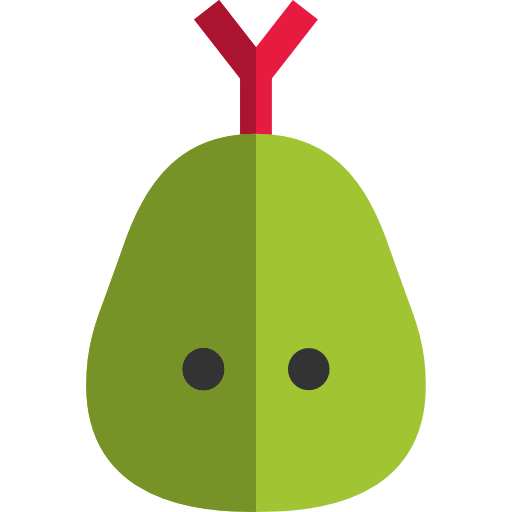
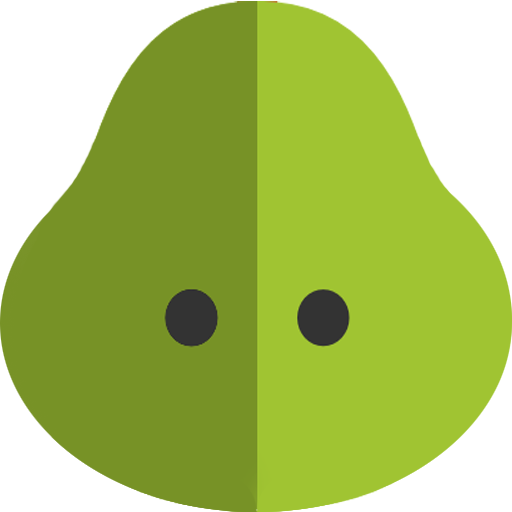
implemented collisions between snake and apple, refactoring, bug fixing

diff --git a/lecture_24/instances.py b/lecture_24/instances.py
@@ -1,28 +1,24 @@
-
+from os import path
 from config import *
 import random
 
 
 class GameElement:
 
-    def __init__(self, pos: tuple, size: tuple, image="", color=""):
+    def __init__(self, pos: tuple, size: tuple, image="", color="", direction="up"):
         if image or color:
             self.size = size
-            self.degree = 0
+            self.direction = direction
             if image:
                 self.surface = pg.image.load(image).convert_alpha()
                 self.surface = pg.transform.scale(self.surface, size)
                 self.rect = self.surface.get_rect(x=pos[0], y=pos[1])
-                self.element = (self.surface, self.rect)
             if color:
                 self.surface = pg.Surface(self.size)
                 self.rect = self.surface.get_rect(x=pos[0], y=pos[1])
-                self.element = (self.surface, self.rect)
+
         else:
             raise TypeError("Insufficient arguments to create a class object. Image or color is necessary.")
-
-    def get_element(self):
-        return self.element
 
     def get_pos(self):
         return self.rect.x, self.rect.y
@@ -39,16 +35,29 @@ class GameElement:
         self.rect.x = pos[0]
         self.rect.y = pos[1]
 
-    def rotate(self, desired):
-        angles = [0, 90, 180, 270]
-        degree = None
-        if desired in angles and desired != self.degree:
-            if desired > self.degree:
-                degree = desired - self.degree
-            if desired < self.degree:
-                degree = 360 - self.degree + desired
-            self.surface = pg.transform.rotate(self.surface, -degree)
-            self.degree = desired
+    def rotate(self, direction="up"):
+        degrees = {"up": 0,
+                  "left": 270,
+                  "down": 180,
+                  "right": 90}
+        rotate_degree = None
+        required_degree = degrees[direction]
+        current_degree = degrees[self.direction]
+
+        if direction in degrees and degrees[direction] != current_degree:
+            if required_degree > current_degree:
+                rotate_degree = required_degree - current_degree
+            if degrees[direction] < current_degree:
+                rotate_degree = 360 - current_degree + required_degree
+
+            self.surface = pg.transform.rotate(self.surface, -rotate_degree)
+            self.direction = direction
+
+    @staticmethod
+    def generate_new_pos(scrn: pg.Surface, cell_size: int):
+        x = random.randrange(0, scrn.get_width(), cell_size)
+        y = random.randrange(0, scrn.get_height(), cell_size)
+        return x, y
 
 
 class Worm:
@@ -61,45 +70,61 @@ class Worm:
     def __len__(self):
         return len(self.body)
 
-    def extend(self, body_el: GameElement):
-        self.body.append(body_el)
-
     def get_positions(self):
         positions = []
         for element in self.body:
             positions.append(element.get_pos())
         return positions
 
-    def move(self, offset, angle):
+    def define_direction(self, event_key, current_direction):
+        direction = current_direction
+        if event_key == pg.K_DOWN and self.head.direction != UP:
+            direction = DOWN
+        if event_key == pg.K_UP and self.head.direction != DOWN:
+            direction = UP
+        if event_key == pg.K_RIGHT and self.head.direction != LEFT:
+            direction = RIGHT
+        if event_key == pg.K_LEFT and self.head.direction != RIGHT:
+            direction = LEFT
+        return direction
+
+    def move(self, offset, direction):
         next_x, next_y = self.head.get_pos()
 
         for i, el in enumerate(self.body):
 
             if el == self.head:
-                self.head.rotate(angle)
+                self.head.rotate(direction)
                 self.head.move(offset)
             else:
                 current_x, current_y = el.get_pos()
                 if self.body[i-1].rect.x != el.rect.x and self.body[i-1].rect.y != el.rect.y:
-                    el.rotate(angle)
+                    el.rotate(direction)
                 el.set_pos((next_x, next_y))
                 next_x, next_y = current_x, current_y
-
-    def define_direction(self, event_key):
-        direction = ""
-        if event_key == pg.K_DOWN and self.head.degree != degrees[UP]:
-            direction = DOWN
-        if event_key == pg.K_UP and self.head.degree != degrees[DOWN]:
-            direction = UP
-        if event_key == pg.K_RIGHT and self.head.degree != degrees[LEFT]:
-            direction = RIGHT
-        if event_key == pg.K_LEFT and self.head.degree != degrees[RIGHT]:
-            direction = LEFT
-        return direction
 
     def draw(self, scrn):
         for el in self.body:
             el.draw(scrn)
+
+    def is_collision(self, game_el_rect: pg.Rect):
+        return self.head.rect.colliderect(game_el_rect)
+
+    def extend(self):
+        next_body_el_pos = ()
+        last_el = self.body[-1]
+        if last_el.direction == UP:
+            next_body_el_pos = last_el.rect.bottomleft[0] + 1, last_el.rect.bottomleft[1] + 1
+        if last_el.direction == DOWN:
+            next_body_el_pos = last_el.rect.topleft[0] + CELL_SIZE, last_el.rect.topleft[1]
+        if last_el.direction == LEFT:
+            next_body_el_pos = last_el.rect.topright[0], last_el.rect.topright[1]
+        if last_el.direction == RIGHT:
+            next_body_el_pos = last_el.rect.topleft[0], last_el.rect.topleft[1] - CELL_SIZE
+
+        next_body_el = GameElement(next_body_el_pos, CELL, image=path.join(folder, images["body"]))
+        next_body_el.rotate(last_el.direction)
+        self.body.append(next_body_el)
 
 
 class Apple(GameElement):
@@ -107,6 +132,7 @@ class Apple(GameElement):
     def __init__(self, pos, size, image):
         super().__init__(pos, size, image)
 
+    # TODO: accept taken positions as args and check if taken depending on all objects on the field
     @staticmethod
     def is_new_pos_taken(worm_positions: list[tuple], new_pos: tuple):
         for pos in worm_positions:
@@ -115,17 +141,9 @@ class Apple(GameElement):
             else:
                 return False
 
-    @staticmethod
-    def generate_new_pos(scrn: pg.Surface, cell_size: int):
-        x = random.randrange(0, scrn.get_width(), cell_size)
-        y = random.randrange(0, scrn.get_height(), cell_size)
-        return x, y
-
     def set_new_random_pos(self, scrn: pg.Surface, worm_positions: list[tuple], ):
         new_pos = Apple.generate_new_pos(scrn, CELL_SIZE)
         taken = Apple.is_new_pos_taken(worm_positions, new_pos)
         while taken and new_pos != self.get_pos():
             new_pos = Apple.generate_new_pos(scrn, CELL_SIZE)
         self.set_pos(new_pos)
-
-

diff --git a/lecture_24/snake_game.py b/lecture_24/snake_game.py
@@ -1,5 +1,4 @@
 from os import path
-
 from config import *
 import screen
 from instances import GameElement, Worm, Apple
@@ -7,34 +6,23 @@ from instances import GameElement, Worm, Apple
 
 def play_game():
     pg.init()
+
+    #  game instances creation
     game_scrn = screen.create(SCREEN_W, SCREEN_H, colors["black"])
 
-    #  snake creation
-    head = GameElement((SCREEN_W // 2, SCREEN_H // 2), CELL, image=path.join("images", "snake.png"))
-    body_1 = GameElement((SCREEN_W // 2, SCREEN_H // 2 + CELL_SIZE), CELL, image=path.join("images", "body.png"))
-    body_2 = GameElement((SCREEN_W // 2, SCREEN_H // 2 + CELL_SIZE * 2), CELL, image=path.join("images", "body.png"))
-    body_3 = GameElement((SCREEN_W // 2, SCREEN_H // 2 + CELL_SIZE * 3), CELL, image=path.join("images", "body.png"))
-    # body_4 = SnakeElement(SCREEN_W // 2, SCREEN_H // 2 + CELL * 4, (CELL, CELL), path.join("images", "body.png"))
-    # body_5 = SnakeElement(SCREEN_W // 2, SCREEN_H // 2 + CELL * 5, (CELL, CELL), path.join("images", "body.png"))
-    # body_6 = SnakeElement(SCREEN_W // 2, SCREEN_H // 2 + CELL * 6, (CELL, CELL), path.join("images", "body.png"))
+    head = GameElement((SCREEN_W // 2, SCREEN_H // 2), CELL, image=path.join(folder, images["snake"]))
     worm = Worm(head)
-    worm.extend(body_1)
-    worm.extend(body_2)
-    worm.extend(body_3)
-    # snake.extend(body_4)
-    # snake.extend(body_5)
-    # snake.extend(body_6)
+    worm.extend()
 
-    #  game logic
+    apple = Apple((0, 0), CELL, image=path.join(folder, images["apple"]))
+    apple.set_new_random_pos(game_scrn, worm.get_positions())
 
-    apple = Apple((40, 40), CELL, image=path.join("images", "apple.png"))
     clock = pg.time.Clock()
     direction = ""
     running = True
     curr_offset = [0, 0]
-    # snake.blit(screen)
+    speed = 4
 
-    # counter = 0
     while running:
 
         for event in pg.event.get():
@@ -43,14 +31,17 @@ def play_game():
                 running = False
 
             if event.type == pg.KEYDOWN:
-                direction = worm.define_direction(event.key)
+                if event.key in [pg.K_UP, pg.K_DOWN, pg.K_RIGHT, pg.K_LEFT]:
+                    direction = worm.define_direction(event.key, direction)
 
         if direction:
-            apple.set_new_random_pos(game_scrn, worm.get_positions())
-            angle = degrees[direction]
             curr_offset[0] = STEP * directions[direction][0]
             curr_offset[1] = STEP * directions[direction][1]
-            worm.move(curr_offset, angle)
+            worm.move(curr_offset, direction)
+            if worm.is_collision(apple.rect):
+                worm.extend()
+                apple.set_new_random_pos(game_scrn, worm.get_positions())
+                speed += 1
 
         game_scrn.fill(colors["black"])
         screen.draw_grid(game_scrn, cell_size=CELL_SIZE)
@@ -59,7 +50,7 @@ def play_game():
         apple.draw(game_scrn)
         worm.draw(game_scrn)
         pg.display.flip()
-        clock.tick(SPEED)
+        clock.tick(speed)
         # counter += 1
 
     pg.quit()

diff --git a/lecture_24/config.py b/lecture_24/config.py
@@ -9,7 +9,6 @@ CELL = (CELL_SIZE, CELL_SIZE)
 STEP = 20
 SCREEN_W = CELL_SIZE * 50
 SCREEN_H = CELL_SIZE * 30
-SPEED = 4
 
 colors = {
     "black": (0, 0, 0),
@@ -33,9 +32,10 @@ directions = {
     "right": (1, 0)
 }
 
-degrees = {
-    "up": 0,
-    "down": 180,
-    "right": 90,
-    "left": 270
+
+folder = "images"
+images = {
+    "snake": "snake.png",
+    "body": "body_2.png",
+    "apple": "apple.png"
 }
